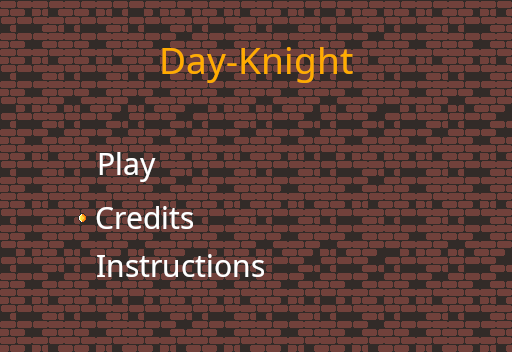
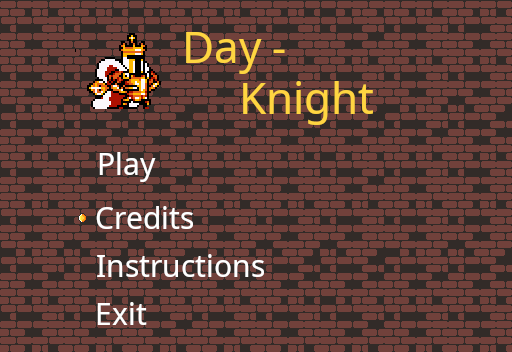
Main menu with play and exit functionality

Changed region(s): [[0.1562, 0.0938, 0.75, 0.375], [0.1875, 0.8438, 0.2812, 0.9375]]

diff --git a/Projecte/MainMenu.cpp b/Projecte/MainMenu.cpp
@@ -14,17 +14,11 @@ MainMenu::MainMenu(int width, int height)
     selectedPlay.loadFromFile("images/main_menu/selected_play.png", PixelFormat::TEXTURE_PIXEL_FORMAT_RGBA);
     selectedCredits.loadFromFile("images/main_menu/selected_credits.png", PixelFormat::TEXTURE_PIXEL_FORMAT_RGBA);
     selectedInstructions.loadFromFile("images/main_menu/selected_instructions.png", PixelFormat::TEXTURE_PIXEL_FORMAT_RGBA);
+    selectedExit.loadFromFile("images/main_menu/selected_exit.png", PixelFormat::TEXTURE_PIXEL_FORMAT_RGBA);
 
     projection = glm::ortho(0.f, float(width - 1), float(height - 1), 0.f);
 
-    // glm::vec2 geom[] = {
-    //     {0.0f, 0.0f},
-    //     {width, height}};
-    // glm::vec2 texCoords[] = {
-    //     {0.0f, 0.0f},
-    //     {1.0f, 1.0f}};
-
-    // quad = TexturedQuad::createTexturedQuad(geom, texCoords, texProgram);
+    selection = MainMenuSelection::Play;
 
     {
         Shader vShader, fShader;
@@ -84,30 +78,47 @@ void MainMenu::render()
     texProgram.setUniformMatrix4f("modelview", modelview);
     texProgram.setUniform2f("texCoordDispl", 0.f, 0.f);
 
-    if (current == 0)
+    switch (selection)
+    {
+    case MainMenuSelection::Play:
         quad->render(selectedPlay);
-    if (current == 1)
+        break;
+    case MainMenuSelection::Credits:
         quad->render(selectedCredits);
-    if (current == 2)
+        break;
+    case MainMenuSelection::Instructions:
         quad->render(selectedInstructions);
+        break;
+    case MainMenuSelection::Exit:
+        quad->render(selectedExit);
+        break;
+    }
 }
 
-void MainMenu::update(int deltaTime)
+int MainMenu::update(int deltaTime)
 {
     time += deltaTime;
     if (time <= 200)
-        return;
+        return None;
+
+    if (Game::instance().getKey(13)) // 13 is enter key
+    {
+        return selection;
+    }
 
     if (Game::instance().getSpecialKey(GLUT_KEY_DOWN))
     {
         time = 0;
-        current = (current + 1) % 3;
+        selection = (selection + 1) % 4;
     }
 
     if (Game::instance().getSpecialKey(GLUT_KEY_UP))
     {
         time = 0;
-        current--;
-        if (current == -1) current = 2;
+        selection--;
+        if (selection == -1)
+            selection = MainMenuSelection::Exit;
     }
+
+    return None;
 }

diff --git a/Projecte/Game.cpp b/Projecte/Game.cpp
@@ -37,6 +37,7 @@ Game::Game()
 
 	currentLevelIdx = 0;
 	currentScene = levels[currentLevelIdx];
+	currentSceneType = CurrentSceneType::MainMenu;
 }
 
 void Game::init()
@@ -44,25 +45,37 @@ void Game::init()
 	bPlay = true;
 	glClearColor(0.3f, 0.3f, 0.3f, 1.0f);
 
-        levelSelection = new LevelSelection();
+	// levelSelection = new LevelSelection();
+	mainMenu = new MainMenu(SCREEN_WIDTH, SCREEN_HEIGHT);
 }
 
 bool Game::update(int deltaTime)
 {
-	return bPlay;
+	// TEMPORAL:
 
-	auto status = currentScene->update(deltaTime);
-
-	if (status == SceneStatus::LevelComplete)
+	if (currentSceneType == CurrentSceneType::MainMenu)
 	{
-		++currentLevelIdx;
-		currentScene = levels[currentLevelIdx];
+		auto status = mainMenu->update(deltaTime);
+		if (status == MainMenuSelection::Play)
+			currentSceneType = CurrentSceneType::Play;
+		else if (status == MainMenuSelection::Exit)
+			bPlay = false;
 	}
-    else if (status == SceneStatus::PlayerDead)
-    {
-        ++currentLevelIdx;
-        currentScene = levels[currentLevelIdx];
-    }
+	else if (currentSceneType == CurrentSceneType::Play)
+	{
+		auto status = currentScene->update(deltaTime);
+
+		if (status == SceneStatus::LevelComplete)
+		{
+			++currentLevelIdx;
+			currentScene = levels[currentLevelIdx];
+		}
+		else if (status == SceneStatus::PlayerDead)
+		{
+			++currentLevelIdx;
+			currentScene = levels[currentLevelIdx];
+		}
+	}
 
 	return bPlay;
 }
@@ -70,14 +83,18 @@ bool Game::update(int deltaTime)
 void Game::render()
 {
 	glClear(GL_COLOR_BUFFER_BIT | GL_DEPTH_BUFFER_BIT);
-	// currentScene->render();
-	levelSelection->render();
+
+	if (currentSceneType == CurrentSceneType::MainMenu)
+		mainMenu->render();
+	else if (currentSceneType == CurrentSceneType::Play)
+		currentScene->render();
 }
 
 void Game::keyPressed(int key)
 {
 	if (key == 27) // Escape code
 		bPlay = false;
+
 	keys[key] = true;
 }
 

diff --git a/Projecte/Game.h b/Projecte/Game.h
@@ -3,15 +3,20 @@
 #include "Scene.h"
 
 #include "LevelSelection.h"
+#include "MainMenu.h"
 
 constexpr int SCREEN_WIDTH = 40 * (32 + 2);
 constexpr int SCREEN_HEIGHT = 40 * (22 + 2) + 40;
 
 // Game is a singleton (a class with a single instance) that represents our whole application
 
-// 1360
-// 1000
-// 1.36
+enum class CurrentSceneType
+{
+	MainMenu,
+	Play,
+	Instructions,
+	Credits,
+};
 
 class Game
 {
@@ -49,7 +54,10 @@ private:
 
 	bool paused = false;
 
-	LevelSelection* levelSelection;
+	CurrentSceneType currentSceneType;
+
+	LevelSelection *levelSelection;
+	MainMenu *mainMenu;
 
 	std::vector<Scene *> levels;
 	int currentLevelIdx;

diff --git a/Projecte/MainMenu.h b/Projecte/MainMenu.h
@@ -4,6 +4,15 @@
 #include "Texture.h"
 #include "TexturedQuad.h"
 
+enum MainMenuSelection
+{
+    None = -1,
+    Play = 0,
+    Credits = 1,
+    Instructions = 2,
+    Exit = 3
+};
+
 class MainMenu
 {
 public:
@@ -11,19 +20,18 @@ public:
     ~MainMenu();
 
     void render();
-    void update(int deltaTime);
+    int update(int deltaTime);
 
 private:
     Texture selectedPlay;
     Texture selectedCredits;
     Texture selectedInstructions;
+    Texture selectedExit;
 
     TexturedQuad *quad;
-
     ShaderProgram texProgram;
-
     glm::mat4 projection;
 
-    int current = 0;
+    int selection;
     int time = 0;
 };
